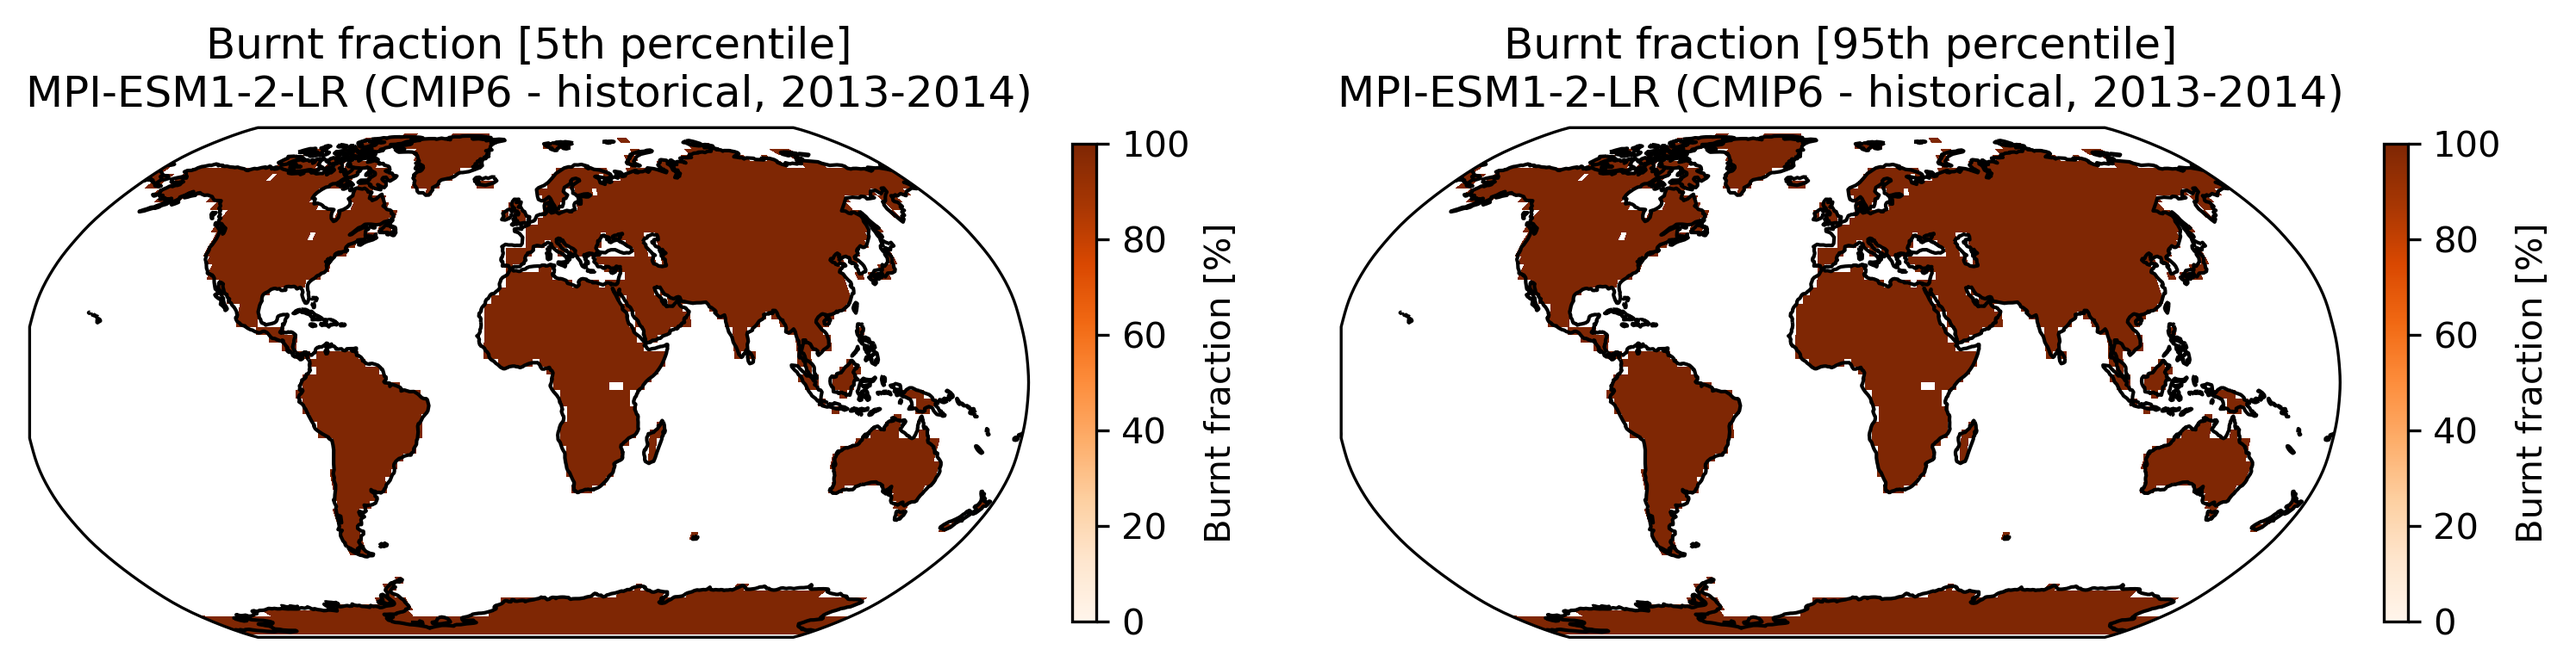
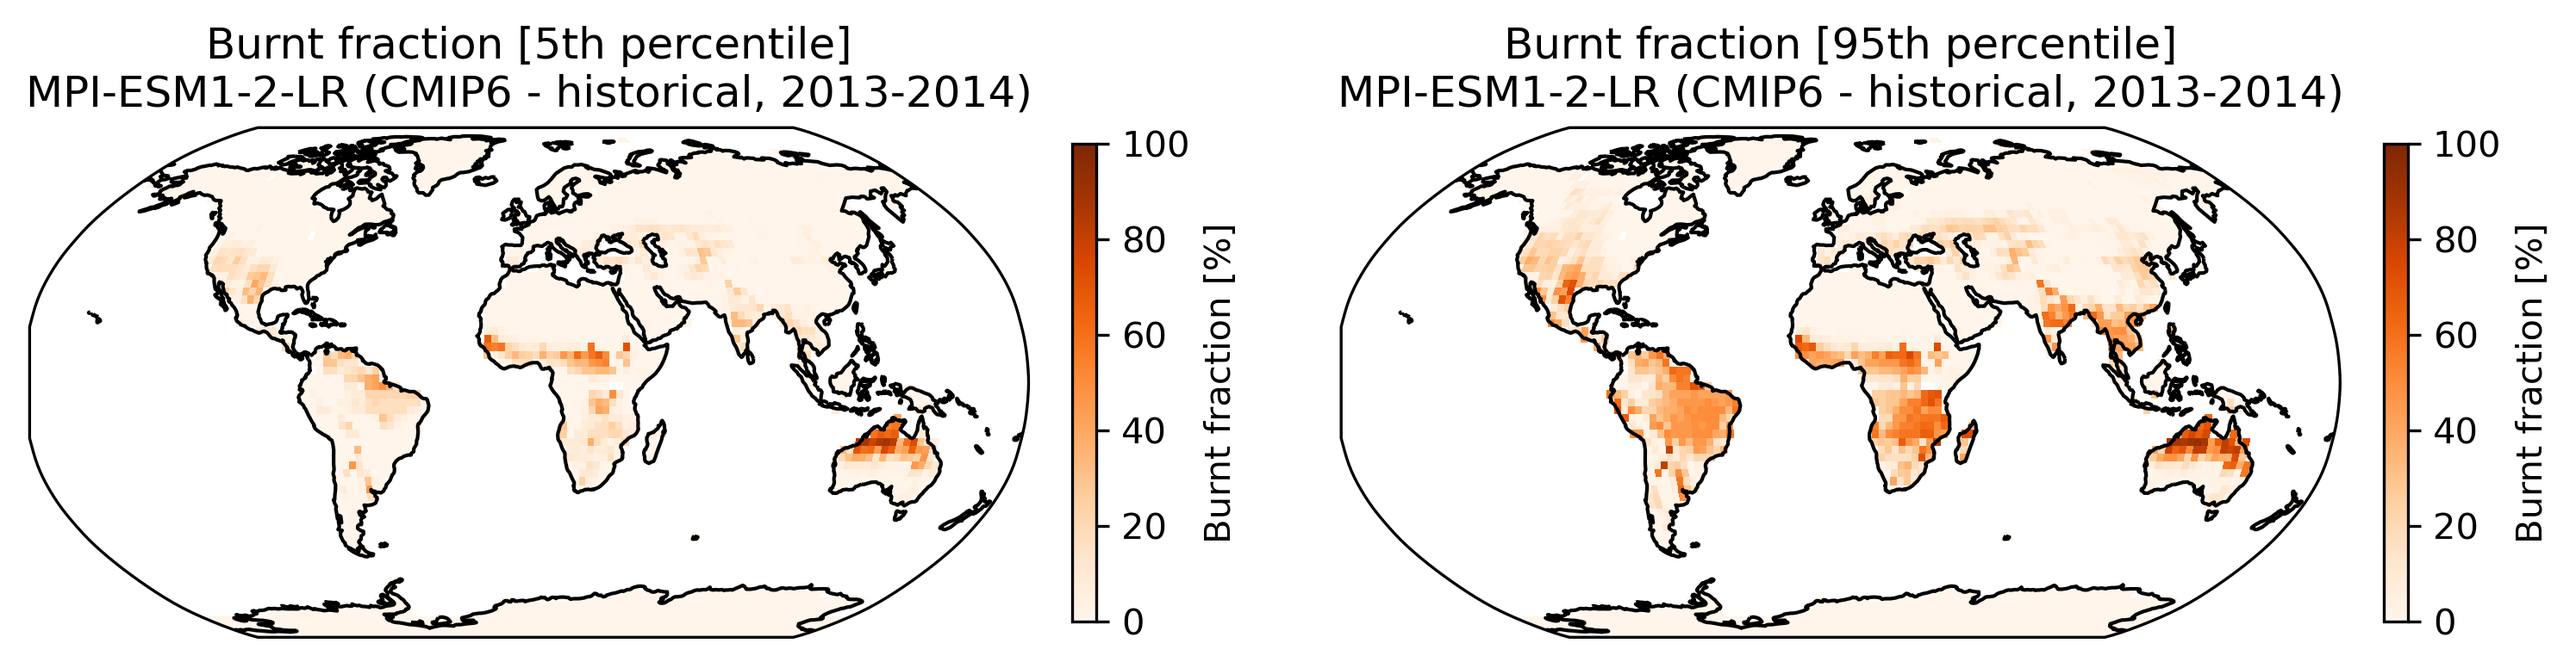
Fixing the bug + update figures

diff --git a/esmvaltool/diag_scripts/fire/diagnostic_run_confire.py b/esmvaltool/diag_scripts/fire/diagnostic_run_confire.py
@@ -16,6 +16,7 @@ The directory and filename are indicated above each function definition.
 from __future__ import annotations
 
 import ast
+import copy
 import logging
 from collections.abc import Callable
 from pathlib import Path
@@ -84,9 +85,6 @@ def get_provenance_record(
         + spec
         + "as computed with the ConFire model (Jones et al., 2024).",
         "fuel_load_continuity_control": "Fuel load continuity control "
-        + spec
-        + "as computed with the ConFire model (Jones et al., 2024).",
-        "stochastic_control": "Stochastic control "
         + spec
         + "as computed with the ConFire model (Jones et al., 2024).",
     }
@@ -379,15 +377,15 @@ def _construct_param_comb(
 
     Returns
     -------
-        param_in: dict
+        param_input: dict
             Dictionary of paramater values.
     """
-    param_in = [
+    param_input = [
         param[i] if param.ndim == 1 else param[i, :] for param in params
     ]
-    param_in = dict(zip(params_names, param_in, strict=False))
-    param_in.update(extra_params)
-    return param_in
+    param_input = dict(zip(params_names, param_input, strict=False))
+    param_input.update(extra_params)
+    return param_input
 
 
 # /libs/read_variable_from_netcdf.py
@@ -947,11 +945,6 @@ def _setup_cube_output(
             "long_name": "Fuel Load/Continuity control",
             "factor": 1.0,
         },
-        "stochastic_control": {
-            "units": "1",
-            "long_name": "Stochastic control",
-            "factor": 1.0,
-        },
     }
     if output == "burnt_fraction":
         cube.var_name = "burnt_fraction"
@@ -973,12 +966,6 @@ def _setup_cube_output(
         ]
         cube.units = parameter_dict["fuel_load_continuity_control"]["units"]
         cube.data *= parameter_dict["fuel_load_continuity_control"]["factor"]
-    elif output == "stochastic_control":
-        cube.var_name = "stochastic_control"
-        cube.standard_name = None
-        cube.long_name = parameter_dict["stochastic_control"]["long_name"]
-        cube.units = parameter_dict["stochastic_control"]["units"]
-        cube.data *= parameter_dict["stochastic_control"]["factor"]
     else:
         logger.debug("Output %s cannot be processed. Saving output as is.")
     cube.attributes["ancestors"] = provenance["ancestors"]
@@ -1036,9 +1023,8 @@ def diagnostic_run_confire(
     # **Sample Iterations from Trace**
     nits = len(params[0])
     idx = range(0, nits, int(np.floor(nits / nsample_for_running)))
-    # **Storage for Model Outputs (Including full model, physical &
-    # stochastic controls)**
-    out_cubes = [[] for _ in range(nexp + 2)]
+    # **Storage for Model Outputs (Including full model, physical controls)**
+    out_cubes = [[] for _ in range(nexp + 1)]
 
     def _run_model_into_cube(
         param_in: dict,
@@ -1070,38 +1056,28 @@ def diagnostic_run_confire(
     logger.info("Running ConFire model...")
     for index, i in zip(idx, range(len(idx)), strict=False):
         coord = iris.coords.DimCoord(i, "realization")
-        param_in = _construct_param_comb(
+        param_in_full = _construct_param_comb(
             index,
             params,
             params_names,
-            extra_params,
+            copy.deepcopy(extra_params),
         )
 
         # **Run Full Model**
-        out_cubes[0].append(_run_model_into_cube(param_in, coord))
+        out_cubes[0].append(_run_model_into_cube(param_in_full, coord))
 
         # **Run Model with Individual Controls Turned On**
         for exp in range(nexp):
-            param_in["control_Direction"][:] = [0] * nexp
-            param_in["control_Direction"][exp] = control_direction[exp]
-            param_in = _construct_param_comb(
-                exp,
-                params,
-                params_names,
-                extra_params,
-            )
-            out_cubes[exp + 1].append(_run_model_into_cube(param_in, coord))
-
-        # **Run Model with All Controls Off (Stochastic Control)**
-        param_in["control_Direction"][:] = [0] * nexp
-        out_cubes[exp + 2].append(_run_model_into_cube(param_in, coord))
+            param_exp = copy.deepcopy(param_in_full)
+            param_exp["control_Direction"][:] = [0] * nexp
+            param_exp["control_Direction"][exp] = control_direction[exp]
+            out_cubes[exp + 1].append(_run_model_into_cube(param_exp, coord))
 
     # **Save Output Cubes**
     # In the current configuration, outputs from the model runs are:
     #   - burnt area (model)
     #   - fire weather (control direction 0)
     #   - fuel loads (control direction 1)
-    #   - stochastic control
     logger.info("Saving ConFire output cubes...")
     Path.mkdir(output_dir, parents=True, exist_ok=True)
     timerange = timerange.replace("/", "-")
@@ -1154,10 +1130,6 @@ def diagnostic_run_confire(
             "vmin": 0.0,
             "vmax": 1.0,
         },
-        "stochastic_control": {
-            "vmin": 0.0,
-            "vmax": 1.0,
-        },
     }
     for filename in config["filenames_out"]:
         filepath = Path(output_dir) / f"{filename}_{model_name}_{timerange}.nc"
@@ -1174,10 +1146,13 @@ def diagnostic_run_confire(
             cube = iris.load_cube(filepath)
             for pct in [5, 95]:
                 pc_cube = cube.collapsed(
+                    "time",
+                    iris.analysis.MEAN,
+                ).collapsed(
                     "realization",
                     iris.analysis.PERCENTILE,
                     percent=pct,
-                )[0]
+                )
                 img = iris.quickplot.pcolormesh(
                     pc_cube,
                     axes=axes[plotn],

diff --git a/esmvaltool/diag_scripts/fire/fire_diagnostic.py b/esmvaltool/diag_scripts/fire/fire_diagnostic.py
@@ -400,7 +400,6 @@ def main(cfg: dict) -> None:
             "burnt_fraction",
             "fire_weather_control",
             "fuel_load_continuity_control",
-            "stochastic_control",
         ]
         logger.info("Running diagnostic model ConFire.")
         figures = diagnostic_run_confire(
